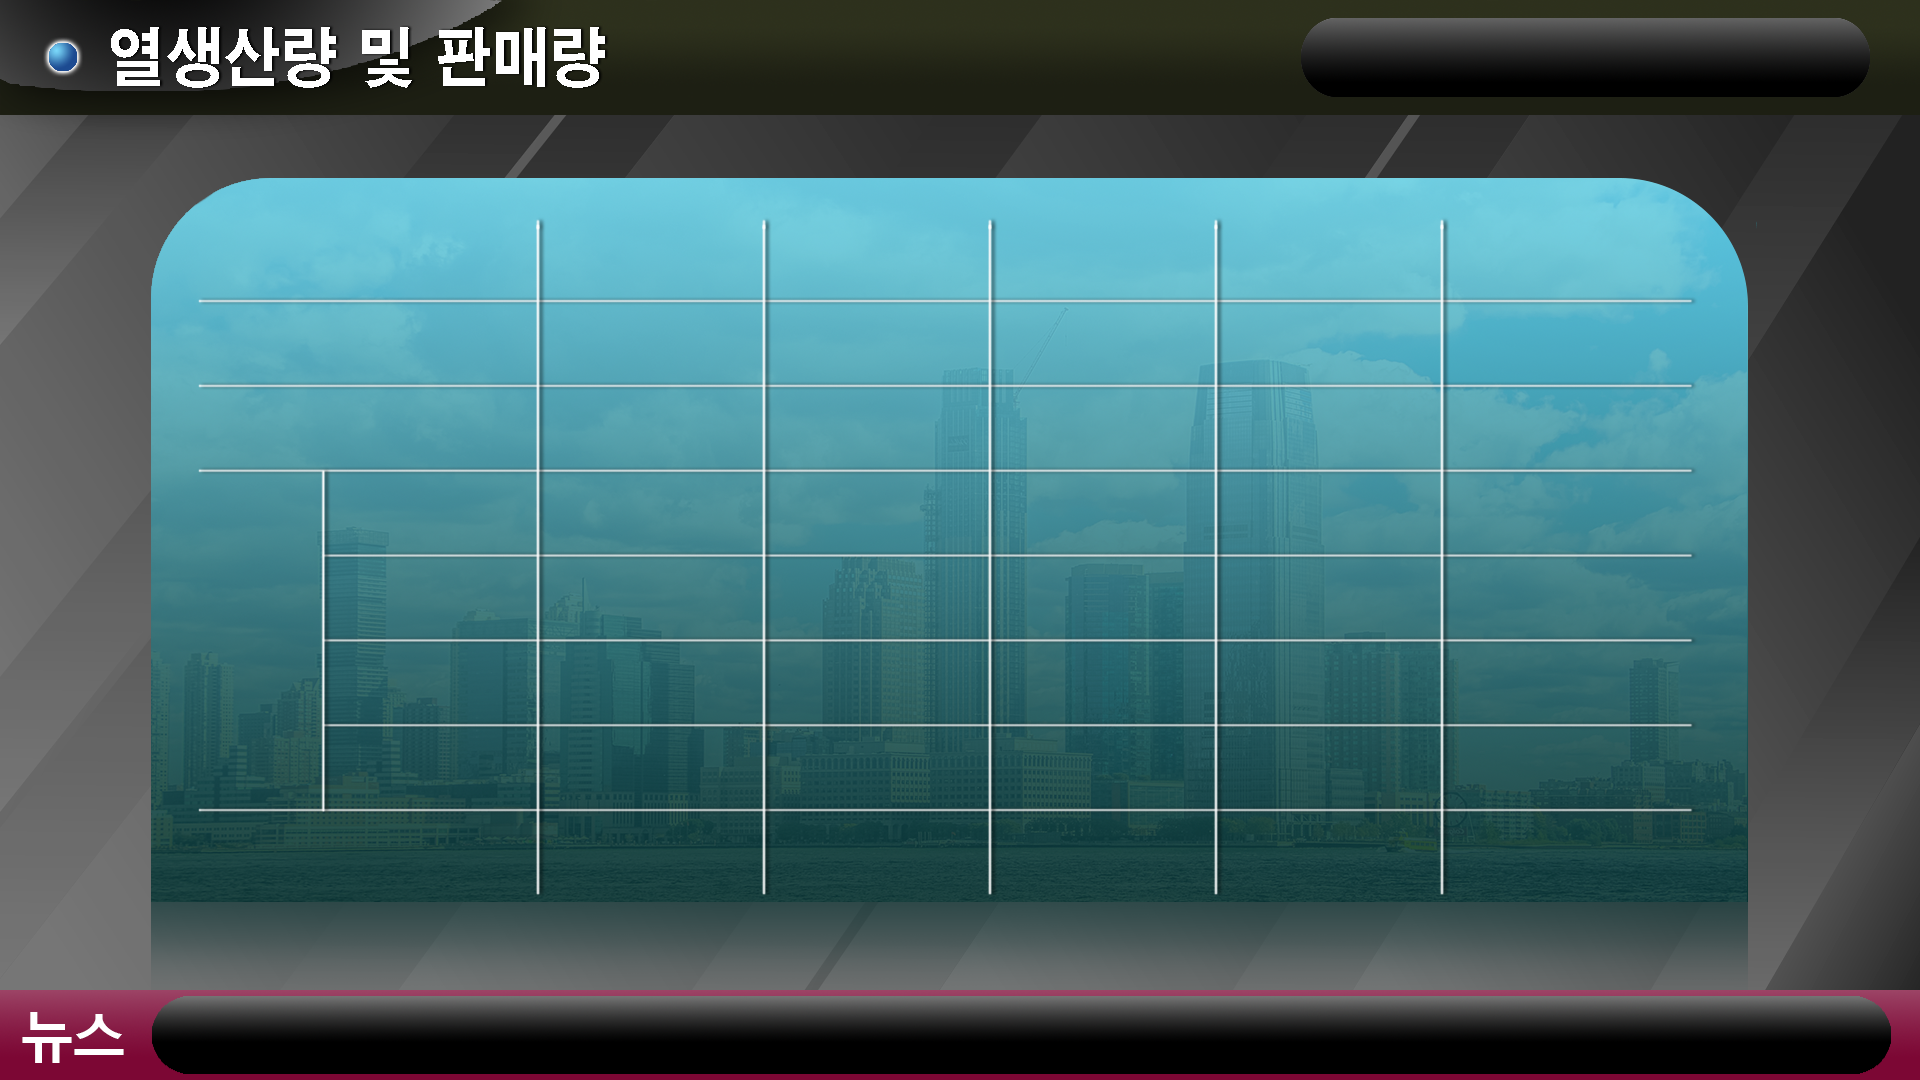
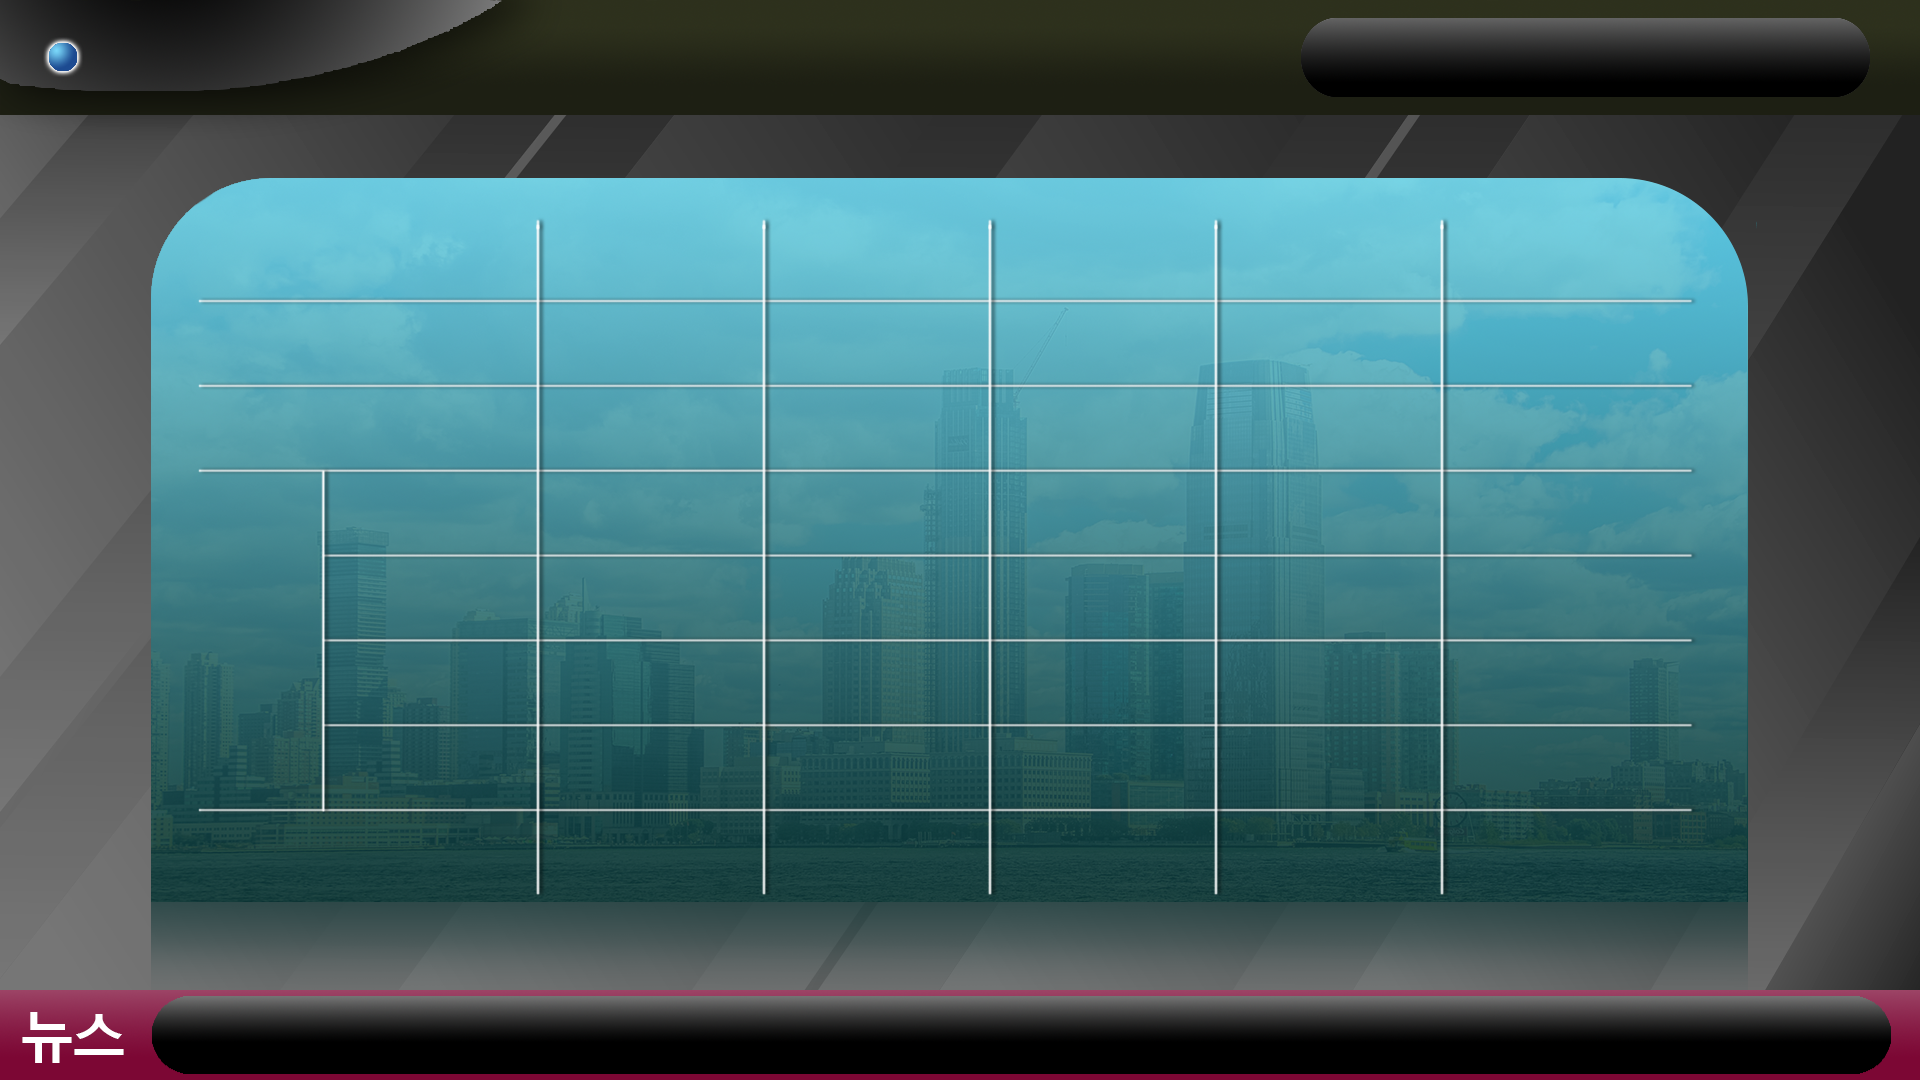
Restructuring & edit pages

Changed region(s): [[0.0625, 0.0, 0.3125, 0.0917]]

diff --git a/views/src/pages/1.html b/views/src/pages/1.html
@@ -4,29 +4,46 @@
     <meta charset="UTF-8">
     <meta name="viewport" content="width=device-width, initial-scale=1.0">
     <title>carousel 1</title>
+    <link rel="stylesheet" type="text/css" href="../styles/page.css" />
     <style>
-        /* :root {
-            --paddingX: 11vw;
-            --paddingY: 0vw;
-        } */
         body{
             margin: 0vw;
-            /* padding: var(--paddingY) var(--paddingX); */
             background-image: url('../images/1.png');
             background-size: 100%;
         }
-        .title{ 
-            font-size: 3vw;
-            font-weight: 600;
-            background-color: #6a5acd;
-            display: none;
+        /* .clock{
+            position: absolute;
+            right: var(--paddingX);
+            font-size: xx-large;
+            display: flex;
+            font-weight: 550;
         }
+        .js-clock__1{
+            font-size: 4vw;
+            background-color: red;
+            padding-right: 1vw;
+        }
+        .js-clock__2{
+            font-size: 1.3vw;
+            flex: 4;
+            display: flex;
+            flex-direction: row;
+            align-items: flex-end;
+            background-color: blue;
+            
+        }
+        .js-clock__3{
+            font-size: 1.3vw;
+            flex: 3;
+            background-color: sandybrown;
+        } */
+
+
         .table__container{
             position: relative;
         }
         table, th, td{
-            border: 2px solid transparent;
-            /* border: 2px solid #444444; */
+            border: 0.105vw solid transparent;
         }
         table{
             position: absolute;
@@ -39,7 +56,7 @@
             border-collapse: separate;
 
             color: #F4FFFF;
-            text-shadow: 2px 2px 2px black;;
+            text-shadow: 0.11vw 0.11vw 0.11vw black;
             font-weight: 600;
         }
         th, td{
@@ -48,8 +65,7 @@
         th{
             /* padding: 0.7vw; */
             
-            color: #094b3e;
-            text-shadow: black;
+            color: rgb(13, 105, 100);
         }
         td{
             text-align: center;
@@ -65,32 +81,7 @@
         .other__col{
             width: 11.4vw;
         }
-        .clock{
-            position: absolute;
-            right: var(--paddingX);
-            font-size: xx-large;
-            display: flex;
-            /* font-weight: 550; */
-        }
-        .js-clock__1{
-            font-size: 4vw;
-            /* background-color: red; */
-            padding-right: 1vw;
-        }
-        .js-clock__2{
-            font-size: 1.3vw;
-            flex: 4;
-            display: flex;
-            flex-direction: row;
-            align-items: flex-end;
-            /* background-color: blue; */
-            
-        }
-        .js-clock__3{
-            font-size: 1.3vw;
-            flex: 3;
-            /* background-color: sandybrown; */
-        }
+
     </style>
 </head>
 <body>
@@ -101,10 +92,11 @@
             <div class="js-clock__3"></div>
         </div>
     </span> -->
+    <div class="clock__container"></div>
 
-    <!-- <div class="title">
-        • <span class="year"></span><span class="month"></span>열생산량 및 판매량
-    </div> -->
+    <div class="title">
+        <span class="year">0000년 </span><span class="month">00월 </span>열생산량 및 판매량
+    </div>
 
     <div class="table__container">    
         <table>
@@ -224,6 +216,6 @@
         paintPage(json);
 
     </script>
-    <script src="../clock.js"></script>
+    <script src="../scripts/clock.js"></script>
 </body>
 </html>

diff --git a/views/src/scripts/clock.js b/views/src/scripts/clock.js
@@ -1,6 +1,7 @@
-const clock_1 = document.querySelector(".js-clock__1");
-const clock_2 = document.querySelector(".js-clock__2");
-const clock_3 = document.querySelector(".js-clock__3");
+const clock = document.querySelector(".clock__container")
+// const clock_1 = document.querySelector(".js-clock__1");
+// const clock_2 = document.querySelector(".js-clock__2");
+// const clock_3 = document.querySelector(".js-clock__3");
 
 const YY = document.querySelector('.year');
 const MM = document.querySelector('.month');
@@ -18,11 +19,11 @@ function getTime() {
     const hours = date.getHours();
     const seconds = date.getSeconds();
     
-    // clock.innerText = `${year}-${month}-${today}(${days[day]}) ${hours < 10 ? `0${hours}` : hours}:${minutes < 10 ? `0${minutes}` : minutes}:${seconds < 10 ? `0${seconds}` : seconds}`
+    clock.innerText = `${year}-${month}-${today}(${days[day]}) ${hours < 10 ? `0${hours}` : hours}:${minutes < 10 ? `0${minutes}` : minutes}:${seconds < 10 ? `0${seconds}` : seconds}`
     
-    clock_1.innerText = `${hours < 10 ? `0${hours}` : hours}:${minutes < 10 ? `0${minutes}` : minutes}`    
-    clock_2.innerText = `${days[day]}요일`
-    clock_3.innerText = `${year}.${month}.${today}`;
+    // clock_1.innerText = `${hours < 10 ? `0${hours}` : hours}:${minutes < 10 ? `0${minutes}` : minutes}`    
+    // clock_2.innerText = `${days[day]}요일`
+    // clock_3.innerText = `${year}.${month}.${today}`;
     
     
     if (YY){

diff --git a/views/src/pages/2.html b/views/src/pages/2.html
@@ -4,9 +4,12 @@
     <meta charset="UTF-8">
     <meta name="viewport" content="width=device-width, initial-scale=1.0">
     <title>carousel 2</title>
+    <link rel="stylesheet" type="text/css" href="../styles/page.css" />
     <style>
         body{
-            padding: 0;
+            margin: 0vw;
+            background-image: url('../images/2.png');
+            background-size: 100%;
         }
         table{
             margin-top: 2vw;
@@ -21,6 +24,7 @@
     </style>
 </head>
 <body>
+    <div class="clock__container"></div>
 
     <div>
         <div class="title" style="font-size: 3vw; text-align: center; margin-bottom: 2vw;">
@@ -86,7 +90,6 @@
 
 
 
-    <!-- <span class="js-clock"></span>
-    <script src="../clock.js"></script> -->
+    <script src="../scripts/clock.js"></script>
 </body>
 </html>

diff --git a/views/index.html b/views/index.html
@@ -4,9 +4,9 @@
     <meta charset="UTF-8">
     <meta name="viewport" content="width=device-width, initial-scale=1.0">
     <title>test</title>
-    <link rel="stylesheet" href="src/carousel.css">
-    <link rel="stylesheet" href="index.css">
-    <script src="src/fetchJson.js"></script>
+    <link rel="stylesheet" href="src/styles/carousel.css">
+    <link rel="stylesheet" href="src/styles/index.css">
+    <script src="src/scripts/fetchJson.js"></script>
 </head>
 <body>
     <div class="carousel">
@@ -28,8 +28,8 @@
         <div class="carousel__nav"></div>
     </div>
 
-    <script src="index.js"></script>
-    <script src="src/carousel.js"></script>
+    <script src="src/scripts/index.js"></script>
+    <script src="src/scripts/carousel.js"></script>
 
 </body>
 </html>

diff --git a/views/src/pages/3.html b/views/src/pages/3.html
@@ -4,9 +4,12 @@
     <meta charset="UTF-8">
     <meta name="viewport" content="width=device-width, initial-scale=1.0">
     <title>carousel 3</title>
+    <link rel="stylesheet" type="text/css" href="../styles/page.css" />
     <style>
         body{
-            padding: 0;
+            margin: 0vw;
+            background-image: url('../images/3.png');
+            background-size: 100%;
         }
         table{
             margin-top: 2vw;
@@ -65,8 +68,7 @@
 
 
 
-    <!-- <span class="js-clock"></span>
-    <script src="../clock.js"></script> -->
+    <script src="../scripts/clock.js"></script>
 </body>
 
 </html>

diff --git a/views/src/styles/page.css b/views/src/styles/page.css
@@ -1,0 +1,20 @@
+.title{
+    position: absolute;
+    font-size: 3vw;
+    font-weight: 900;
+    color: white;
+    font-size: 3.3vw;
+    top: 0.7vw;
+    left: 5.4vw;
+    font-family:'sans-serif';
+    text-shadow: 0.15vw 0.15vw 0.15vw black;
+}
+.clock__container{
+    position: absolute;
+    right:3.7vw;
+    top: 1.1vw;
+    font-size: 2.5vw;
+    color: snow;
+    text-shadow: 0.1vw 0.1vw 0.1vw black;
+    font-weight: 900;
+}

diff --git a/views/src/pages/4.html b/views/src/pages/4.html
@@ -4,6 +4,14 @@
     <meta charset="UTF-8">
     <meta name="viewport" content="width=device-width, initial-scale=1.0">
     <title>carousel 4</title>
+    <link rel="stylesheet" type="text/css" href="../styles/page.css" />
+    <style>
+        body{
+            margin: 0vw;
+            background-image: url('../images/4.png');
+            background-size: 100%;
+        }
+    </style>
 </head>
 <body>
 

diff --git a/views/src/pages/5.html b/views/src/pages/5.html
@@ -4,6 +4,14 @@
     <meta charset="UTF-8">
     <meta name="viewport" content="width=device-width, initial-scale=1.0">
     <title>carousel 5</title>
+    <link rel="stylesheet" type="text/css" href="../styles/page.css" />
+    <style>
+        body{
+            margin: 0vw;
+            background-image: url('../images/5.png');
+            background-size: 100%;
+        }
+    </style>
 </head>
 <body>
 

diff --git a/views/src/pages/6.html b/views/src/pages/6.html
@@ -4,6 +4,14 @@
     <meta charset="UTF-8">
     <meta name="viewport" content="width=device-width, initial-scale=1.0">
     <title>carousel 6</title>
+    <link rel="stylesheet" type="text/css" href="../styles/page.css" />
+    <style>
+        body{
+            margin: 0vw;
+            background-image: url('../images/6.png');
+            background-size: 100%;
+        }
+    </style>
 </head>
 <body>
 

diff --git a/views/src/pages/7.html b/views/src/pages/7.html
@@ -4,6 +4,14 @@
     <meta charset="UTF-8">
     <meta name="viewport" content="width=device-width, initial-scale=1.0">
     <title>carousel 7</title>
+    <link rel="stylesheet" type="text/css" href="../styles/page.css" />
+    <style>
+        body{
+            margin: 0vw;
+            background-image: url('../images/7.png');
+            background-size: 100%;
+        }
+    </style>
 </head>
 <body>
 

diff --git a/views/src/pages/8.html b/views/src/pages/8.html
@@ -4,6 +4,14 @@
     <meta charset="UTF-8">
     <meta name="viewport" content="width=device-width, initial-scale=1.0">
     <title>carousel 8</title>
+    <link rel="stylesheet" type="text/css" href="../styles/page.css" />
+    <style>
+        body{
+            margin: 0vw;
+            background-image: url('../images/8.png');
+            background-size: 100%;
+        }
+    </style>
 </head>
 <body>
 

diff --git a/views/src/pages/9.html b/views/src/pages/9.html
@@ -4,6 +4,14 @@
     <meta charset="UTF-8">
     <meta name="viewport" content="width=device-width, initial-scale=1.0">
     <title>carousel 9</title>
+    <link rel="stylesheet" type="text/css" href="../styles/page.css" />
+    <style>
+        body{
+            margin: 0vw;
+            background-image: url('../images/9.png');
+            background-size: 100%;
+        }
+    </style>
 </head>
 <body>
 
